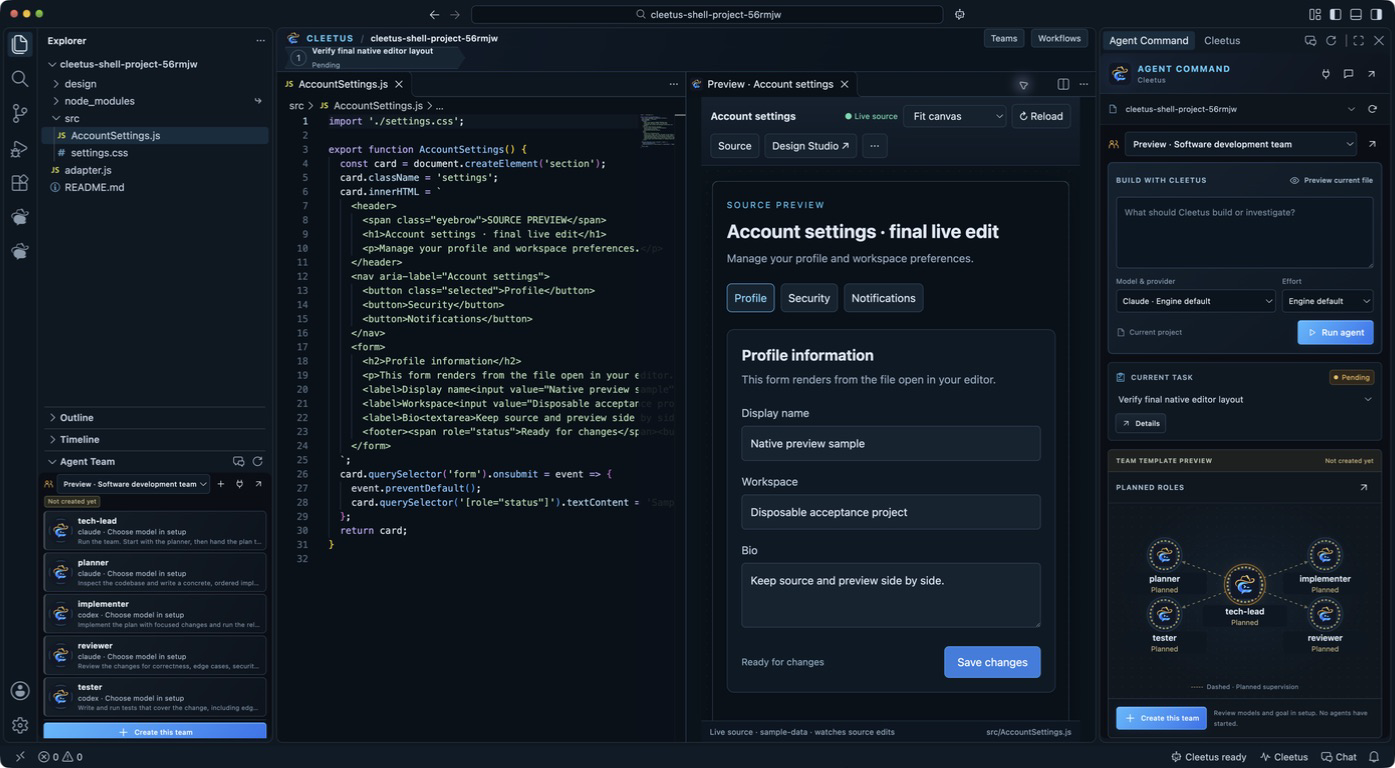
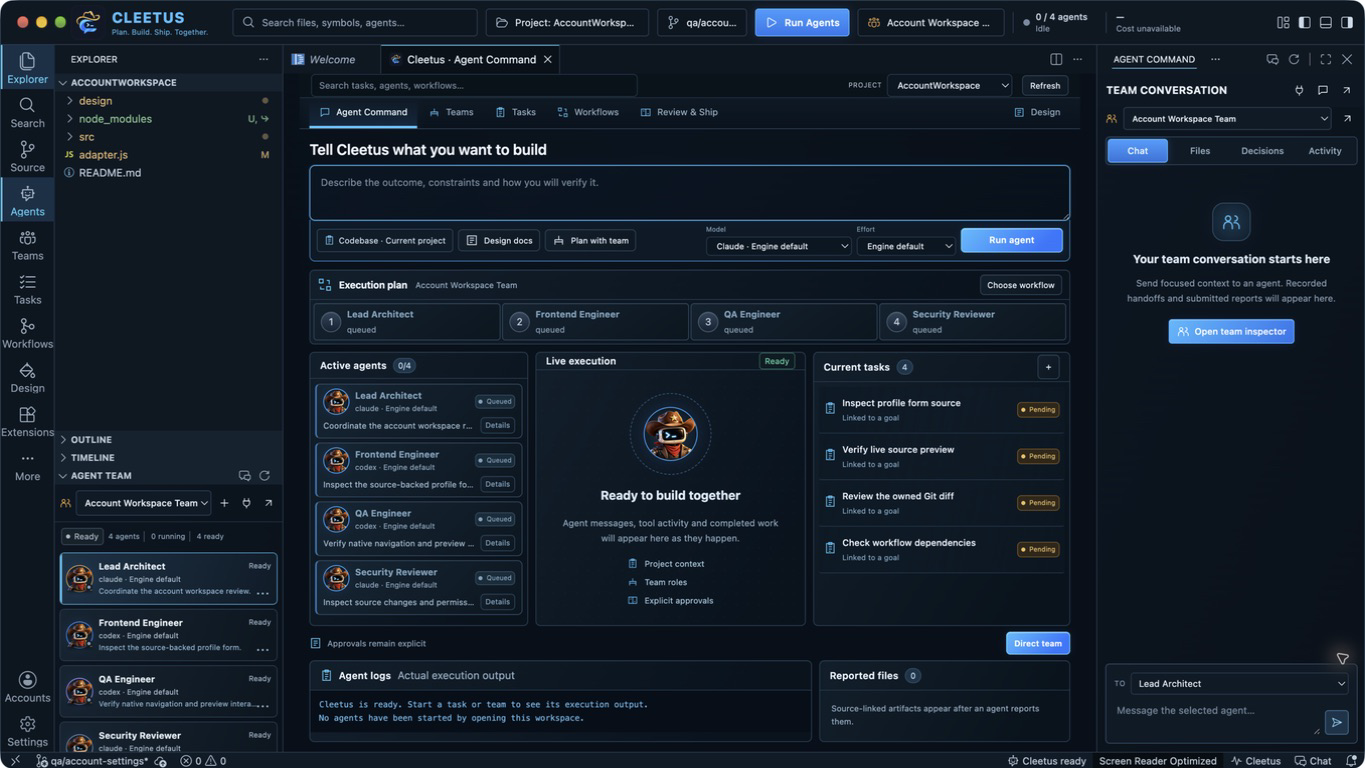
Update Cleetus public documentation

diff --git a/docs/IDE.md b/docs/IDE.md
@@ -1,150 +1,107 @@
 # Cleetus IDE and Studio
 
-Cleetus IDE combines a Code OSS editor with Cleetus Agent Command, teams, tasks, workflows, review, and Design. The existing Cleetus extension remains a separate product for ordinary VS Code.
+Cleetus IDE puts a Code - OSS editor, agents and a source-linked Design studio in one workspace. The maintained VS Code extension uses the same Cleetus application and remains independently distributed.
 
-| Distribution | Availability |
+| Product | Availability |
 | --- | --- |
-| **Cleetus VS Code extension** | Stable public VSIX. Follow [Install and update](INSTALL.md). |
-| **Cleetus IDE 0.1.0-dev.2** | Unreleased local development build. The current macOS app is unsigned and unnotarized. A signed public IDE installer is **not available yet**. |
+| **VS Code extension** | Public stable **1.11.1**; **1.11.2** is the current candidate. [Install and update](INSTALL.md). |
+| **IDE 0.1.0-dev.3** | Local development app built from pinned official Code - OSS source. Unsigned and unnotarized; no signed public native installer is available. |
 
-This guide describes the current development interface. Do not treat a development app or unsigned archive as a signed public release. Public installation instructions will accompany a signed, published IDE package when one is available.
+The images below are actual native dev.3 captures of a disposable **AccountWorkspace** project. Its four team members are ready and unstarted, tasks are pending, Review shows a real local Git edit, and Design renders a real local component. No providers were started for these captures. They demonstrate the interface and local data, not live account execution, completed customer work or pairing between two physical computers.
 
-## Open your workspace
+## Open the source and preview workspace
 
-If you have an authorized development build:
+![Native editor with source, live preview and agent docks](screenshots/ide-native-editor.png)
 
-1. Open Cleetus and choose a project folder. Use the normal Explorer, editor, integrated terminal, source control, and compatible language/debug extensions alongside your agents.
-2. Connect Claude or Codex through Cleetus **Get started**. Their runtimes and accounts are separate installs; use the same [engine setup](INSTALL.md#connect-your-engines) as the extension.
-3. Run **Cleetus: Open Development Workspace** from the Command Palette. The compact **Agent Team** sits beneath Explorer, **Agent Command** sits on the right, and the real source editor and preview share the center.
-4. **Cleetus: Focus Agent Command** focuses the right command pane. Its **Engines** action opens the existing engine setup; **Open conversation** opens Cleetus chat. The IDE shortcut is **Ctrl+Alt+I**, or **Ctrl+Cmd+I** on macOS. **Open Cleetus workspace** in engine setup returns to the development layout.
-5. Use **Cleetus: Open Studio** for the full **Agent Command**, **Teams**, **Tasks**, **Workflows**, **Review & Ship**, and **Design** screens. Studio expands the editor canvas and temporarily hides the right command pane while keeping Explorer available. Run **Cleetus: Open Development Workspace** to restore source and the current preview side by side.
+Open a project folder, then run **Cleetus: Open Development Workspace**. Explorer and the compact Agent Team dock sit on the left; the native source editor and registered live preview share the center; Agent Command stays on the right. The branded command bar and labeled action rail provide access to the editor, Agent Command, Teams, Tasks, Workflows, Review and Design. **More** retains other editor views, including debugging.
 
-The native workflow strip above the editor shows recorded team members, workflow steps or tasks and their actual states. Select an entry to inspect its work in Studio. An empty workspace has no invented execution plan or progress.
+The workflow strip above the editor uses actual team members, tasks or workflow steps. Select a stage to inspect that recorded item. Existing editor tabs, split resizing, terminal, source control and compatible language extensions remain available.
 
-Cleetus provides the IDE's agent experience. The upstream vendor chat/runtime is omitted from this development distribution; Copilot is a possible future engine, not an available Cleetus engine today. Claude and Codex remain the current supported choices.
+Run **Cleetus: Preview Current File**, or choose **Preview current file** in Agent Command, for a registered page or component. Choose **Fit canvas**, **Desktop**, **Tablet** or **Phone**; save source changes to rebuild the preview. **Source** focuses its implementation and **Reload** refreshes the preview. Buttons and forms run the actual registered source with controlled fixture data. Build failures remain visible.
 
-The IDE uses its own application identity, settings, extension directories, and launch profiles. It can coexist with VS Code without moving your VS Code settings or credentials automatically. Install compatible extensions from Open VSX or a reviewed VSIX. Availability and licensing vary by extension; installing one does not supply a model subscription.
+Use **Cleetus: Focus Agent Command** for the right dock (**Ctrl+Alt+I**, or **Ctrl+Cmd+I** on macOS). **Engines** opens account setup; **Open conversation** opens Cleetus chat. Use the native rail or **Cleetus: Open Studio** for the full Studio screens, and **Cleetus: Open Development Workspace** to return to source and preview. Studio expands into the editor canvas while retaining the compact team dock; the conversation pane is reserved for wide Agent Command layouts.
 
-## Start with one goal
+The IDE keeps its own application identity, settings, extension directories and profiles. It coexists with VS Code without automatically moving settings or credentials. Install compatible extensions from Open VSX or a reviewed VSIX; availability and licensing vary. Cleetus supplies the agent interface. Claude and Codex are the supported engines; the upstream vendor chat/runtime is omitted from this build.
 
-![Actual native development workspace with source, live preview, compact Agent Team and right Agent Command](screenshots/ide-native-agent-command.png)
+## Give Agent Command a goal
 
-*Actual unsigned dev.2 native app in a disposable acceptance project. The displayed team is a template marked **Not created yet**; the sample task is pending. No agents were launched for this capture.*
+![Native central Agent Command with actual project plan and ready team](screenshots/ide-native-agent-command.png)
 
-1. In **Agent Command**, choose a connected engine, a discovered model or **Engine default**, and an effort offered by that engine.
-2. Describe the outcome, relevant constraints, and how you will check the result. Submitting the goal saves a goal and a linked execution task before requesting a run.
-3. Read the native approval dialog, especially its project and working directory. Allow only the work you intend to run.
-4. Inspect actual output and tool requests. Agent progress and team communication come from observed events; a requested model setting is not proof of provider-reported execution metadata.
+The central Agent Command brings the goal composer, plan, selected team, recorded sessions, tasks, activity and reported files together. Its cards reflect saved local state. Requested models are configuration; provider-reported execution metadata remains unknown until reported. Cost and activity are not inferred from a template or a ready team.
 
-The left team cards show real roles, model settings and state once a team exists. Before creation, they preview saved template roles with **Not created yet** and **Create this team**. The right pane shows the selected team’s topology and recorded messages, tool activity, timeline and file references. Choosing a template or opening a view starts no agents.
+1. Connect Claude or Codex through **Get started** using the [engine setup guide](INSTALL.md#connect-your-engines).
+2. Choose a discovered model or **Engine default**, and an effort supported by that engine.
+3. Describe the outcome, constraints and acceptance checks. **Run agent** saves the goal and linked execution task before requesting a run.
+4. Review the native approval, including project and working directory, then inspect actual output, tool requests and edits.
 
-Use a conversation for a focused question. Use a task when you want durable acceptance criteria, ownership, and a separate review decision. A stopped run retains source changes already made.
-
-## Keep tasks reviewable
-
-![Actual native full-canvas Studio Tasks board with one pending sample task and its inspector](screenshots/ide-tasks.png)
-
-*Actual native dev.2 capture of the same disposable project. The right command pane is folded away for Studio; Explorer and the compact team preview remain. This pending task has not run an engine or produced an approved result.*
-
-In **Tasks**, use **+ New goal** or **+ New task**. Give tasks a concrete title, description, acceptance criteria, and an appropriate parent. Select a card to read its report and ownership details. The board separates pending, running, review, and completed work.
-
-Choose **Run task** for a pending task, inspect the engine and working directory in its approval, then follow the result. Dependencies must be completed and approved before a dependent task can be claimed. Claims have an owner, expiry, and fencing generation: an expired or replaced owner cannot submit work using an old claim.
-
-An agent report or ended turn sends work to **review**; it does not approve its own changes. Inspect the actual files, diff, checks, and reported evidence, then choose **Approve result** or **Request changes**. Completion is your review decision, not a claim that every check passed automatically.
-
-### Choose isolation explicitly
-
-**Review & Ship → Owned worktrees → + New worktree** creates a separate checkout and branch from the current committed HEAD. Associate it with an existing task and review the native approval. Uncommitted changes in the primary checkout stay there.
-
-Select the task in **Tasks** and choose its engine/model, effort and working directory. The checkout menu offers the current project and ready owned worktrees associated with that exact task. Creating a worktree alone does not redirect a run; choose it explicitly, then confirm its path in the approval dialog. Follow the execution receipt, use **Stop execution** when needed, and inspect the saved session output before review.
-
-Task ownership remains on the primary project's board even when an authorized run uses an isolated checkout. Stale leases, changed Git identity, or another task's worktree do not grant access. Worktree bindings are not restored automatically from session history.
-
-A worktree separates checkout files; it is not an operating-system sandbox. Existing engine tool permissions and project trust still apply.
+**Plan with team** opens team setup. Opening a draft, choosing a template or viewing the dashboard starts no agents. A stopped run retains changes already made; review them before continuing.
 
 ## Give a team a bounded goal
 
-![Ready agent settings and MCP assignments with local test data](screenshots/ide-agent-settings.png)
+![Native orbital Teams view with four ready members](screenshots/ide-native-teams.png)
 
-Open **Teams → + New team**, choose one of the [nine prebuilt teams](TEAMS.md#which-team-should-i-choose), and inspect its members before creating it. Templates cover delivery, UI design, design extraction, review, debugging, security, refactoring, documentation, and a lean pair.
+Open **Teams → + New team** and choose a [prebuilt team](TEAMS.md#which-team-should-i-choose). Review every role, task, system prompt, engine, model, effort and MCP assignment. A blank member effort inherits the team setting; supervised teams require a Claude supervisor. Ready-member settings can be edited before launch, subject to rejecting stale edits from another window.
 
-Review each role, task, system prompt, engine, model, effort, and supervisor setting. Models come from the connected provider catalog; missing choices are unavailable, not substitutes. A blank member effort uses the team setting. A supervised team needs a Claude supervisor.
+The orbital view uses circular role portraits and declared supervision, pipeline and message relationships. State labels distinguish ready members from running or completed work. Motion represents recent observed messages; the diagram itself does not prove communication or execution. An uncreated template is labeled **Not created yet**.
 
-Creating a team does not start it. Choose **Start team** and approve its actual configuration. Inspect the communication graph, messages, member output, and reports; send direction to the selected member when needed. Pipelines wait for explicit reports, parallel members need separate file ownership or deliberate isolation, and supervisors direct their members.
+Creating a team does not start it. Choose **Start team** and approve the actual configuration when ready. Inspect member output, reports and messages. Pipelines need explicit reports; parallel work needs separate ownership or isolation; supervisors direct their members. Saved history retains output, but historical/interrupted runs do not reattach processes or replay handoffs after restart.
 
-Saved history retains results and messages. A live team remains owned by its launching coordinator. Historical or interrupted work is read-only, and restarting the editor does not replay queued handoffs or reattach arbitrary processes. Review the retained changes before starting new work.
+**Collaborate on LAN** pairs the selected local team with another person's team through an opt-in encrypted connection. Both people approve pairing and each proposal remains subject to local review. See [LAN collaboration](COLLABORATION.md).
+
+## Keep tasks reviewable
+
+![Native Tasks board and inspector with pending local tasks](screenshots/ide-native-tasks.png)
+
+Use **+ New goal** or **+ New task** to record a title, description, acceptance criteria and parent. Select a card to inspect its ownership, execution and report. The board separates pending, running, review and completed work.
+
+For a pending task, choose the engine/model, effort and working directory, then **Run task** and inspect the approval. Available checkouts include the current project and ready Cleetus-owned worktrees associated with that exact task. Follow the execution receipt, use **Stop execution** when needed, and inspect saved output. Creating a worktree alone does not redirect a run.
+
+Dependencies must be completed and approved before dependent work can be claimed. Ownership has an expiry and fencing generation, so replaced or expired claims cannot report new work. A report or ended turn moves work to review; inspect actual files, diffs and checks before **Approve result** or **Request changes**. Completion is your decision, not an automatic claim that checks passed.
 
 ## Define a workflow, then inspect its runs
 
-![Recipe catalog rendered from the actual profile store using local test data](screenshots/ide-workflow-catalog.png)
+![Native saved workflow definition on its pan and zoom canvas](screenshots/ide-native-workflows.png)
 
-1. Open **Workflows → Recipes** and choose a starter for feature development, bug investigation, review, documentation, tests or deployment preparation. Enter your goal and choose a discovered model/effort, then create its saved DAG. Use **Advanced JSON** for a custom definition; give each step a unique ID, supported action, input and `dependsOn` list.
-2. Use **agent-task** for a bounded Claude/Codex request or **design-extract** for source Design extraction. The editor validates actions and rejects missing or circular dependencies.
-3. Save the definition and inspect its graph. Independent steps may run in parallel; a dependent step waits for its predecessors.
-4. Choose **Run workflow** and approve the displayed steps. Inspect the resulting run journal and node states separately from the saved definition.
+Open **Workflows** and choose a recipe for feature work, investigation, review, documentation, tests or deployment preparation. Enter a bounded goal and model/effort, then create the saved DAG. **Advanced JSON** supports explicit steps with unique IDs, supported actions, input and `dependsOn` lists. Use **agent-task** for an engine request or **design-extract** for Design extraction.
 
-Editing a definition does not rewrite earlier runs. Failed predecessors block dependent steps. The current agent and Design actions do not retry side effects automatically. Cancellation and timeouts request a stop; noncooperative work remains uncertain until it settles. An interrupted run is not replayed after restart.
+The canvas displays the real definition and actual selected-run states. Drag to pan, use **+**/**−** to zoom, **100%** for actual size or **Fit** to see the graph. Independent steps can run in parallel; dependencies wait for predecessors. Choose **Run workflow** and approve its displayed steps, then inspect the run journal separately from the definition.
 
-For a first definition, adapt this read-only request to an engine you have connected:
+Editing a definition preserves earlier runs. Failed predecessors block dependent steps. Current agent and Design actions do not automatically retry side effects. Cancellation requests a stop; work that has not settled remains uncertain. Interrupted runs are not replayed on restart.
 
-```json
-{
-  "name": "Inspect a component",
-  "steps": [{
-    "id": "inspect",
-    "action": "agent-task",
-    "input": {
-      "engine": "codex",
-      "prompt": "Inspect an existing component and its tests. Report file references and gaps; do not change files."
-    },
-    "dependsOn": [],
-    "timeoutMs": 300000,
-    "maxAttempts": 1
-  }]
-}
-```
+### Optional automation
 
-### Scheduled and named-event automation
+**Workflows → Automation → + Add automation** supports intervals from **60 seconds to 7 days**, or named events **project.changed**, **task.reviewed** and **manual**. New automation starts disabled. Enabling or changing it requires human approval of the exact definition revision and trigger; editing the workflow invalidates that authorization.
 
-The shared host supports approved intervals of **60 seconds to 7 days** and allowlisted named events: **project.changed**, **task.reviewed**, and **manual**. These names are explicit host events; a file edit or task review does not implicitly emit one merely because its name matches.
+Named events are explicit host events, not implicit file watchers. **Emit an event** needs approval. Reusing an event ID returns its existing receipts; **New event ID** requests a distinct delivery. Inspect dispatch history and the linked run. Missed intervals and overlaps are skipped; failed or uncertain dispatch stops future automation for review. Disable or remove automation to stop future dispatches.
 
-Automation requires a separate human authorization for the exact workflow revision and trigger configuration. Workflow edits invalidate that authorization. Missed intervals are skipped after restart, overlapping runs are skipped, and failed or uncertain dispatches stop further automation for review. Event deliveries use durable identities to prevent duplicate execution.
+## Review the actual changes
 
-Open **Workflows → Automation → + Add automation**, choose a saved workflow, and configure an interval or named event. New automation starts disabled. Enabling or changing it opens the host approval for that exact revision. Use **Disable automation** or **Remove automation** to stop future dispatch.
+![Native Review with a real local Git change and split diff](screenshots/ide-native-review.png)
 
-**Emit an event** is an explicit, approved action. Reusing the same event ID returns its existing receipts; choose **New event ID** for a separate intended delivery. Inspect dispatch history and its linked run journal. Closing a trigger service stops future dispatches; accepted work keeps its runtime cancellation/recovery behavior.
+**Review & Ship → Owned worktrees → + New worktree** creates a checkout and branch from committed HEAD after approval. Associate it with an existing task. Uncommitted primary-checkout changes stay there. Worktrees isolate checkout files, not operating-system permissions; normal engine approvals still apply.
 
-![Automation and deduplicated dispatch receipts from a local application fixture](screenshots/ide-automation.png)
+Choose an owned checkout, **Refresh checkout**, then **Load tracked diff**. Inspect its recorded base, branch, task association and changed-file selector. Switch **Split**/**Unified** to compare source-backed hunks. Truncated output is marked. Untracked and ignored files are listed by name; they are outside the tracked diff.
 
-## Review changes before shipping
+Task ownership remains on the primary project's board even when execution uses its approved checkout. Another task's worktree, changed Git identity or a stale lease does not grant access, and history does not restore checkout authority automatically.
 
-![Actual temporary Git checkout diff; this example shows a declined cleanup and retained changes](screenshots/ide-worktree-review.png)
+The **Pull requests** view uses a configured GitHub tracker to show checks, reviews and merge evidence for the current head. Missing, skipped, stale and unavailable results remain distinct from a pass. Follow the provider link for normal review and merge decisions.
 
-In **Review & Ship**, choose the evidence you need:
+Cleanup needs explicit approval and removes only a verified clean Cleetus-owned checkout. Tracked, untracked and ignored files block it; the branch remains. Review does not automatically merge or cherry-pick changes.
 
-- **Owned worktrees:** select a checkout, use **Refresh checkout**, inspect its branch, recorded base, task association, and changed files, then **Load tracked diff**. Truncated output is marked. Untracked and ignored files are listed by name; their content is not part of the tracked diff.
-- **Pull requests:** choose a configured GitHub tracker and PR. Review checks, review state, and merge evidence for the current head. Missing, skipped, stale, or unavailable checks stay distinct from a pass. Open the provider link for the repository's normal review and merge process.
+## Refine a source-linked component in Design
 
-Cleanup asks for explicit approval and removes only a verified clean Cleetus-owned checkout. Tracked, untracked, and ignored files block removal. The branch is retained, and unrelated worktrees are outside this ledger. Review & Ship does not automatically merge or cherry-pick changes.
+![Native Design component library, live canvas, source and properties](screenshots/ide-native-design.png)
 
-## Keep Design beside the source
+Open **Design** for the component library, interactive source canvas, linked code/fixture panels and component properties. Select a registered component, inspect its implementation and fixtures, and change its exposed controls to exercise the real preview. The inspector uses registered component metadata and supported props; discovery alone does not establish a successful render.
 
-![Cleetus Design promotional artwork, not a native IDE capture](images/cleetus-design-cowboy.png)
+Extract tokens, assets, components, pages and rules from existing code, then prepare focused agent work with source-linked context. **Design Studio ↗** in the editor preview opens the same Design viewer. Preparing a refinement draft does not send it or start a team. Review consumers and relevant checks before adopting an edit.
 
-For daily iteration, open a registered source file and choose **Preview current file** in Agent Command, or run **Cleetus: Preview Current File**. Cleetus opens that source in the native editor and its registered page/component preview beside it. If a choice is needed, select the item from the project’s Design catalog.
-
-The web preview starts in **Fit canvas**. Choose **Desktop**, **Tablet** or **Phone** to inspect a fixed width; use **Source** to focus the implementation and **Reload** for a fresh preview. Saved source edits rebuild the live preview. Exercise form fields and buttons with controlled fixture data; their behavior comes from your actual adapter and source. Inspect visible build errors when a change cannot render.
-
-Use **Design Studio ↗** in the preview, or **Design** in Studio, for the shared Design viewer. Extract a system, inspect tokens/assets/rules, render registered components and pages, and prepare an agent refinement task with source-linked context. **Cleetus: Open Development Workspace** returns to the editor/preview split. Opening a draft does not send it or start agents.
-
-Registered Apple items use the native adapter path: the preview pane offers **Open native preview** and **Build log**, while the real interface runs externally in Apple Device Hub/Simulator for iOS or watchOS. Install Xcode, the required toolchain and Simulator runtime first. Discovery is not proof of a successful Debug story build or render; inspect its logs and native result. Android source discovery currently has no native preview renderer.
+Registered Apple items use **Open native preview** and **Build log**; the real iOS/watchOS interface runs in Apple Device Hub/Simulator with your Xcode toolchain and runtime. Android discovery has no native preview renderer yet.
 
 [Design workflow](DESIGN.md) · [Web and Apple adapters](ADAPTERS.md) · [Product libraries](LIBRARIES.md)
 
-## Accounts, approvals, and updates
+## Accounts, approvals and updates
 
-Connect accounts locally. Secure credentials stay in the host's credential store or the provider's supported runtime configuration; copying a profile does not transfer secure login state. Heavy Design jobs and tracker/PR work use the local service. Normal engine tool permissions and explicit host approvals still apply.
+Credentials stay in the host credential store or supported provider runtime configuration; profile copies do not transfer secure login. Engine accounts and runtimes are separate from installing Cleetus. Existing permissions and host approvals apply across teams, tasks, workflows and collaboration.
 
-The stable extension updater uses public release metadata, verifies VSIX size and SHA-256, and offers an explicit installation choice. It does not update the native IDE application. The IDE checks its own platform-specific public releases separately. A notarized Developer ID installation can stage a newer signed installer after verifying its checksum, publisher, bundle identity and notarization, then rechecks it before your explicit **Open installer** choice. Unsigned development builds can view published release notes but cannot use that verified installer path. No signed public native installer has been published yet. See [installation](INSTALL.md), [local service](SERVICE.md), and [licenses](LICENSES.md).
-
-The editor-layout and Tasks images are actual native development-app captures from a disposable project, with a not-created team template and a pending task. Other screenshots are labeled local application/transport fixtures, and the Design artwork is promotional. These images do not establish live provider execution or validation of your project.
+Extension updates install VSIX files independently from native IDE updates. The native updater verifies checksum, publisher, bundle identity and notarization before staging and rechecking a signed installer for your explicit **Open installer** choice. Unsigned development builds can view public release notes but cannot use that verified installer path. A successful local build is not a signed public release. See [installation](INSTALL.md), [local service](SERVICE.md) and [licenses](LICENSES.md).

diff --git a/docs/COLLABORATION.md b/docs/COLLABORATION.md
@@ -1,0 +1,63 @@
+# Collaborate with another Cleetus team
+
+Cleetus can connect two teams on the same local network through an encrypted TLS 1.3 channel. Each person chooses a local project and team, exchanges an invitation, compares the pairing code, and approves the connection.
+
+Available in the **1.11.2 extension candidate** and native **0.1.0-dev.3** development build. The current public stable extension remains 1.11.1 until the candidate is published. Both computers need Cleetus, a configured team, and OpenSSL available on `PATH` (`openssl version` should succeed).
+
+![Actual native dev.3 collaboration setup dialog with a local ready team](screenshots/ide-native-collaboration.png)
+
+*Native setup capture from a disposable project. It does not show an approved connection between two physical computers or a running provider.*
+
+Collaboration is opt-in. Opening the dialog or reading status starts no listener. Each person controls the local project and team; starting its agents is not required to pair.
+
+## Pair the teams
+
+1. Open **Agents & Teams → Collaborate on LAN** in the extension, or **Teams → Collaborate on LAN** in the IDE.
+2. Choose your local team. Its agents must belong to the project open in this window. Create a team first if the list is empty; creating it does not start agents.
+3. On the inviting computer, choose the private network interface used by the other computer, enter a recognizable label, and choose **Start private listener**. Review the host approval before allowing it.
+4. Choose **Create invitation**, then **Copy invitation**. Share this long invitation privately with the other person. It expires within ten minutes and can be used once.
+5. On the other computer, choose its own local team, paste the invitation, choose **Join for local approval**, and review its host approval.
+6. Compare the **eight-digit TLS comparison code on both computers** through a channel you trust. If they match, both people choose **Codes match · approve pairing** and approve within two minutes. Decline if the codes differ or the request is unexpected.
+
+The copyable invitation establishes the encrypted connection. The eight-digit value binds the human comparison to this TLS connection; it is not a password or a substitute for the invitation. Team names and IDs can differ between computers; each Cleetus instance controls its own local scope.
+
+## Send a proposal
+
+Select an active paired channel and choose **Message** or **Task proposal**. Enter only the content you intend to share, choose **Send for explicit local approval**, then review the local approval dialog. Cleetus sends that exact text after approval.
+
+The receiving person selects its active peer and reviews the complete proposal in **Team inbox**, then chooses **Review & import pending task**, **Review & save message**, or **Reject proposal**. Acceptance opens a separate local host approval:
+
+- An accepted **task** becomes a pending local task with external provenance. Review it in Tasks, then run or assign it through the normal workflow.
+- An accepted **message** goes into the approved team inbox. The team's agents can read it through their scoped Cleetus tools. It is not automatically delivered as an agent prompt or relabeled as the local user's instruction.
+- A receipt distinguishes staging or acceptance from execution. Acceptance does not mean an agent started, completed work, or passed checks.
+
+Pairing grants no filesystem, shell, MCP, provider-account or credential access. Incoming text stays untrusted evidence; local project instructions and existing engine/tool approvals still apply. Code changes continue through your normal version-control workflow. Files are not automatically synchronized or exported.
+
+## Use it from agents
+
+Agents in the selected local team can use these tools after pairing:
+
+| Tool | Purpose |
+| --- | --- |
+| `cleetus_peer_list_peers` | List permitted peers for the authenticated local team. |
+| `cleetus_peer_propose` | Request local approval to send a message or task proposal. |
+| `cleetus_peer_read_inbox` | Read approved external messages, in bounded pages. |
+| `cleetus_peer_read_receipts` | Read acceptance and rejection receipts. |
+
+For example: “List our paired peers, propose that the other team review this component contract, and inspect their receipt before reporting progress.” The agent cannot create invitations, approve pairings, approve imports, or choose another local team's authority.
+
+## Stop or reconnect
+
+Use **Revoke selected peer** to close one channel, or **Stop all collaboration** to close this Cleetus instance's listener and channels. Closing Cleetus also closes them. Closing the collaboration dialog only hides its controls; use revoke or stop to end the connection. Existing local tasks and repository changes remain.
+
+This first version uses session-only pairing. Disconnects, expiry, revocation and restarts require a new invitation; Cleetus does not automatically reconnect or replay requests. If delivery or an import is marked uncertain, inspect the other team's receipt and your local task board before creating another request.
+
+The approved inbox and decision history are stored in the local Cleetus profile. Channels encrypt data in transit; this does not change the profile's existing local storage protections.
+
+## Network requirements
+
+Both computers must be on the same directly attached private IPv4 subnet. Select a concrete private interface; public addresses, wildcard listeners and IPv6 are not supported in this version. There is no automatic discovery, relay, port forwarding or firewall-rule change. Guest Wi-Fi isolation, a VPN or a firewall can prevent the connection.
+
+If connection fails, verify the interface, update both installations, check that the invitation is current, and confirm the computers can reach each other. Missing OpenSSL or failed certificate validation stops pairing; Cleetus does not offer an unencrypted fallback.
+
+[Teams](TEAMS.md) · [IDE workspace](IDE.md) · [Install and update](INSTALL.md)

diff --git a/docs/TEAMS.md b/docs/TEAMS.md
@@ -2,7 +2,7 @@
 
 Prebuilt teams give a shared goal to agents with defined roles, detailed system prompts, and an execution plan. They use the same Claude/Codex engines as ordinary conversations. Choose a template in **Workflows → Team templates**, inspect **View layout**, and choose **Create team** when it fits your task.
 
-In the native IDE development app, use **Cleetus: Open Studio → Teams → + New team** instead. Choose the same template, review its detailed member instructions and discovered model/effort choices, create it, then explicitly **Start team**. Creating a team or opening a Design draft does not start agents. See [IDE availability and Studio](IDE.md).
+In native IDE **0.1.0-dev.3**, use the **Teams** action on the native rail, then **+ New team**, or run **Cleetus: Open Studio**. Choose the same template, review its detailed member instructions and discovered model/effort choices, create it, then explicitly **Start team**. Creating a team or opening a Design draft does not start agents. See [IDE availability and Studio](IDE.md).
 
 ![Current workflow and team-template catalog](screenshots/workflows.png)
 
@@ -48,7 +48,7 @@ Agent details in a template layout let you inspect and save its model, effort, s
 
 Use **Output** to inspect actual work, **Message** to provide direction, and approval controls to answer tool requests. A blocked member needs a concrete recovery action. **Accept & hand off** is your explicit review decision; use it after inspecting the result. Stop a team to interrupt its agents. Delivery limits prevent unlimited task/message loops.
 
-Ready teams can be reopened for editing. In current IDE/source development builds, stale edits from another window are rejected and a live team belongs to its launching coordinator. Saved completed, cancelled, failed, and interrupted history retains output/messages; stopped-owner work becomes interrupted and queued handoffs are cancelled without replay. Historical records are read-only. The stable 1.10.2 extension does not automatically resume running scheduling after a reload; saved records are never proof of process reattachment. See [IDE tasks and recovery](IDE.md#give-a-team-a-bounded-goal) and the [service guide](SERVICE.md).
+Ready teams can be reopened for editing. In current IDE/source development builds, stale edits from another window are rejected and a live team belongs to its launching coordinator. Saved completed, cancelled, failed, and interrupted history retains output/messages; stopped-owner work becomes interrupted and queued handoffs are cancelled without replay. Historical records are read-only. Saved records are never proof of process reattachment. See [IDE tasks and recovery](IDE.md#give-a-team-a-bounded-goal) and the [service guide](SERVICE.md).
 
 ## Design squad or extraction team?
 
@@ -57,3 +57,10 @@ Use **Design System Extraction** to discover and curate what the product already
 Use the **Design squad** to implement or refine an interface against those decisions and approved references. A component/page studio task can prepare a focused team or Conversation draft with source, fixtures, contracts, rules, and acceptance criteria. Preparing a draft does not send it or start agents automatically.
 
 [Design extraction](DESIGN.md#extract-your-first-design-system) · [Component refinement](DESIGN.md) · [Workspace operations](GUIDE.md)
+
+
+## Collaborate across computers
+
+The 1.11.2 extension candidate and native dev.3 build add opt-in **Collaborate on LAN**. Select an existing local team in this project. Pair with another person’s team on the same private IPv4 subnet over TLS 1.3 using a copied one-use invitation and matching eight-digit codes approved by both people. Starting a team is not required to pair it.
+
+Each outgoing proposal and incoming import needs local approval. Accepted tasks become pending local tasks; approved messages stay in a separate team inbox, available through scoped agent tools rather than automatically becoming an agent prompt. Pairing grants no files, commands, provider accounts or credentials. See [network collaboration](COLLABORATION.md) for setup, scoped agent tools and reconnection behavior.

diff --git a/README.md b/README.md
@@ -10,10 +10,10 @@ This is the public download and documentation home for Cleetus. Development sour
 
 | Product | Availability |
 | --- | --- |
-| **Cleetus VS Code extension** | Stable public VSIX for ordinary VS Code. |
-| **Cleetus IDE 0.1.0-dev.1** | Unreleased local, unsigned development app built from official Code OSS source. A signed public IDE installer is not available yet. |
+| **Cleetus VS Code extension** | Stable **1.11.1** VSIX for ordinary VS Code; **1.11.2** is the current candidate. |
+| **Cleetus IDE 0.1.0-dev.3** | Unreleased local, unsigned and unnotarized development app built from official Code - OSS source. A signed public IDE installer is not available yet. |
 
-[Cleetus IDE and Studio](docs/IDE.md) covers its native editor, agent command surface, goals/tasks, team graphs, workflow runs, worktree review, and embedded Design. The existing extension remains maintained and independently distributed.
+[Cleetus IDE and Studio](docs/IDE.md) covers its compact source/preview editor, central Agent Command, orbital team view, tasks, workflow canvas, split/unified review, and live Design component controls. The existing extension remains maintained and independently distributed.
 
 ## Build with a crew
 
@@ -22,6 +22,8 @@ Resume conversations, choose available models and effort, review tool requests/d
 ![Cleetus workspace with illustrative data](docs/screenshots/conversation.png)
 
 [Workspace guide](docs/GUIDE.md) · [Prebuilt teams](docs/TEAMS.md)
+
+The 1.11.2 candidate adds [opt-in LAN collaboration](docs/COLLABORATION.md): pair two teams on the same private IPv4 subnet over TLS 1.3, compare matching eight-digit codes, and approve both sides. Outgoing proposals and incoming imports each need local approval. Accepted tasks stay pending; approved messages go to a separate inbox.
 
 ## Design with a studio
 
@@ -49,4 +51,4 @@ Apache-licensed Cleetus extension portions retain their accompanying license and
 
 [License details](docs/LICENSES.md) · [Apache-2.0](docs/licenses/Apache-2.0.txt) · [Future IDE preview terms](docs/licenses/IDE-PREVIEW-LICENSE.txt)
 
-The browser developer host is a separate development pathway from the native IDE. Screenshots use illustrative extension/local-fixture data; they are not native IDE captures or proof of a connected account or completed project extraction. Cleetus is independent of Anthropic and OpenAI and uses your own provider accounts.
+The browser developer host is a separate development pathway from the native IDE. Extension screenshots use illustrative data. The IDE guide includes actual native dev.3 captures of a disposable AccountWorkspace project with four ready, unstarted members and pending tasks, a real local Git diff and a source-rendered component. No provider was started for these captures, and they do not establish live account work or two-computer LAN pairing. Cleetus is independent of Anthropic and OpenAI and uses your own provider accounts.

diff --git a/docs/README.md b/docs/README.md
@@ -2,13 +2,14 @@
 
 Cleetus brings Claude and Codex conversations, agent teams, tools, work tracking, and a Design studio into one workspace. Start with installation, then choose the guide for your task.
 
-The public stable product is the **Cleetus VS Code extension**. **Cleetus IDE 0.1.0-dev.1** is an unreleased local development build; no signed public IDE installer is available yet. The [IDE and Studio guide](IDE.md) describes that development interface separately.
+The public stable product is the **Cleetus VS Code extension 1.11.1**; **1.11.2** is the current candidate. **Cleetus IDE 0.1.0-dev.3** is an unreleased, unsigned and unnotarized local development build; no signed public IDE installer is available yet. The [IDE and Studio guide](IDE.md) describes that development interface separately.
 
 | Guide | What it covers |
 | --- | --- |
 | [Install and update](INSTALL.md) | Download a verified VSIX, install the separate engine runtime, connect accounts, and update |
 | [Cleetus IDE and Studio](IDE.md) | Native development app, goals/tasks, teams, workflow runs, owned worktrees, Design and availability |
 | [Workspace and conversations](GUIDE.md) | Chat, history, review, navigation, models and effort |
+| [LAN collaboration](COLLABORATION.md) | Pair two local teams over TLS 1.3 and review message/task proposals |
 | [Prebuilt teams](TEAMS.md) | All nine teams, their purpose, setup and execution |
 | [Cleetus Design](DESIGN.md) | Extraction, tokens, components, page review, assets and rules |
 | [Preview adapters](ADAPTERS.md) | Real web stories, iOS/watchOS Simulator previews and platform requirements |
@@ -21,4 +22,4 @@ The public stable product is the **Cleetus VS Code extension**. **Cleetus IDE 0.
 
 [Download releases](https://github.com/SnowBiz/cleetus-releases/releases)
 
-The screenshots in this guide use the current UI with illustrative local data. They are not live account results or evidence that your project has already been extracted. The Design cowboy banner is promotional artwork. Native previews require your actual Xcode build and Simulator runtime.
+The extension screenshots use illustrative local data. The IDE guide shows actual native dev.3 captures from a disposable AccountWorkspace project with ready, unstarted members and pending tasks. Its Git diff and rendered component come from that local project. No provider was started for the captures; they do not establish live account work, customer extraction or two-computer LAN pairing. The Design cowboy banner is promotional artwork. Native previews require your actual Xcode build and Simulator runtime.

diff --git a/docs/INSTALL.md b/docs/INSTALL.md
@@ -1,6 +1,6 @@
 # Install and update Cleetus
 
-The available public release is the **Cleetus VS Code extension**. The instructions below install that extension. **Cleetus IDE 0.1.0-dev.1** is an unreleased, unsigned local development build; a signed public native installer has not been published yet. See [Cleetus IDE and Studio](IDE.md) for its current interface and limitations.
+The current public stable release is the **Cleetus VS Code extension 1.11.1**. **1.11.2** is the current source candidate; use its release assets only after publication. The instructions below install the extension. **Cleetus IDE 0.1.0-dev.3** is an unreleased, unsigned and unnotarized local development build; a signed public native installer has not been published yet. See [Cleetus IDE and Studio](IDE.md) for its current interface and limitations.
 
 You need VS Code 1.94+, Node.js 22+, npm, and access to the engine you want to use. You may use Claude, Codex, or both. The currently recorded clean-host runtime audit covers macOS ARM64; other supported runtime platforms still need local verification.
 
@@ -41,6 +41,10 @@ For Claude account access, choose the appropriate Claude.ai or Anthropic Console
 For Codex, connect through browser/device sign-in. Cleetus can use a configured executable, a suitable Codex executable supplied by the official extension, or `codex` on PATH. A standalone CLI is required if no other executable is available. Bedrock support depends on runtime/account capability.
 
 Open a project, then choose **Cleetus: Open Workspace**. Start with a bounded task, inspect tool requests and diffs, and run relevant checks. Connect accounts locally; installation does not transfer another computer's tokens or history.
+
+## Optional LAN collaboration
+
+Both computers need a build with collaboration support: the 1.11.2 extension candidate or corresponding IDE dev.3 build. Each person needs an existing local team and **OpenSSL on PATH**; `openssl version` must succeed. Both computers must share the same directly attached private IPv4 subnet. Start no network listener until you choose **Collaborate on LAN** and approve it. Follow the [pairing and proposal guide](COLLABORATION.md); there is no automatic discovery or reconnect.
 
 ## Updates
 
